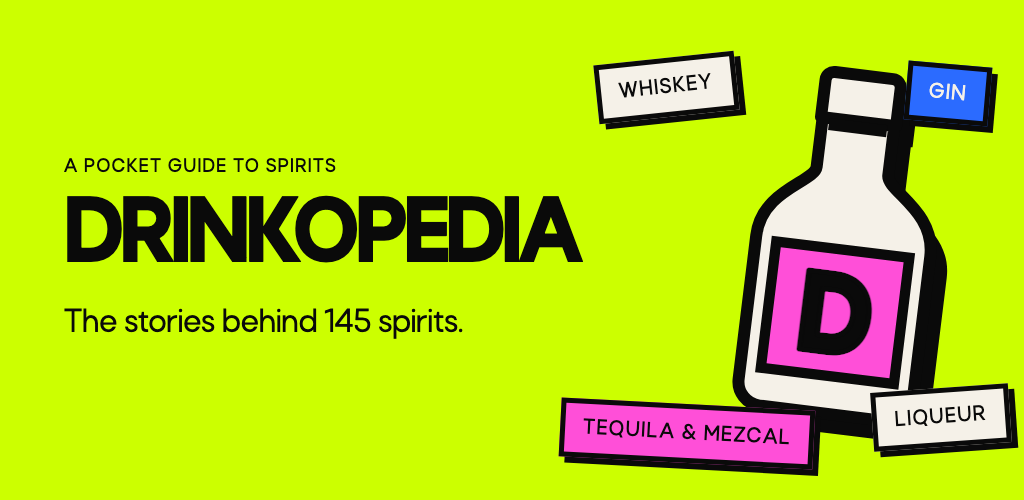
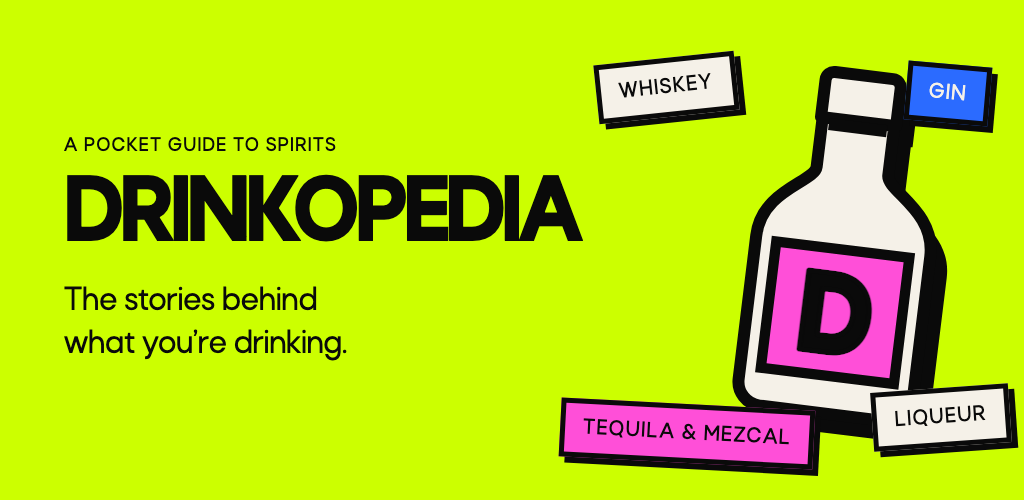
fix: drop the fixed catalogue size from store copy
"145 spirits" was baked into the first screenshot's headline and the
feature graphic's tagline. The number is the seed list's length and
grows with it, and an image can't update itself. The headline is now
"Browse the whole shelf". The feature graphic uses the app's own
tagline, "The stories behind what you're drinking."

Changed region(s): [[0.0625, 0.27, 0.5938, 0.54], [0.0625, 0.57, 0.4688, 0.72]]

diff --git a/store/play/source/generate.py b/store/play/source/generate.py
@@ -131,7 +131,7 @@ body{{width:1024px;height:500px;background:{ACID};position:relative}}
 <div class="copy">
   <div class="label eyebrow">A pocket guide to spirits</div>
   <div class="display word">Drinkopedia</div>
-  <div class="body tag">The stories behind 145&nbsp;spirits.</div>
+  <div class="body tag">The stories behind<br>what you&rsquo;re drinking.</div>
 </div>
 <div class="bottle">{bottle_svg(440, ground=None)}</div>
 {chips}
@@ -140,10 +140,13 @@ body{{width:1024px;height:500px;background:{ACID};position:relative}}
 
 # --- phone screenshots ----------------------------------------------------------
 
+# No copy here states the catalogue size. It is the seed list's length and
+# grows with it, and a number baked into a store image goes stale silently.
+
 SHOTS = (
     # file, raw capture, ground, text colour, shadow, headline, subline, tilt
     ("01-catalogue", "catalogue", ACID, INK, INK,
-     "145 spirits<br>on one shelf", "Whiskey to mezcal, all in one place.", -1.5),
+     "Browse the<br>whole shelf", "Whiskey to mezcal, all in one place.", -1.5),
     ("02-origin-story", "detail", PINK, INK, INK,
      "Read the<br>origin story", "Where it came from and how it's made.", 1.5),
     ("03-filter", "filter", BLUE, PAPER, INK,

diff --git a/store/play/README.md b/store/play/README.md
@@ -13,7 +13,7 @@ size Play Console asks for, so upload them as they are.
 Upload the screenshots in file order. The first two are the ones most people see
 without scrolling, so they lead with the catalogue and an origin story.
 
-1. `01-catalogue` — 145 spirits on one shelf
+1. `01-catalogue` — browse the whole shelf
 2. `02-origin-story` — read the origin story (Bourbon)
 3. `03-filter` — filter by what you drink (Whiskey)
 4. `04-taste` — pick your vibe (the taste intro)
@@ -40,5 +40,8 @@ the iOS status bar and Dynamic Island, is cropped off so no other platform's
 chrome appears in a Play listing. To refresh a screen, capture it at
 1206 × 2622 (iPhone 17 Pro) under the same name and rerun the script.
 
-The copy makes only claims the app backs up. Revisit the "145 spirits" lines
-whenever `assets/data/spirits_seed.json` changes size.
+The copy makes only claims the app backs up, and deliberately never states how
+many spirits there are: that is the length of `assets/data/spirits_seed.json`,
+it grows, and a number baked into an image would go stale without anyone
+noticing. The captured screens do show the app's own live count as it was at
+capture time, which is accurate for that moment.
